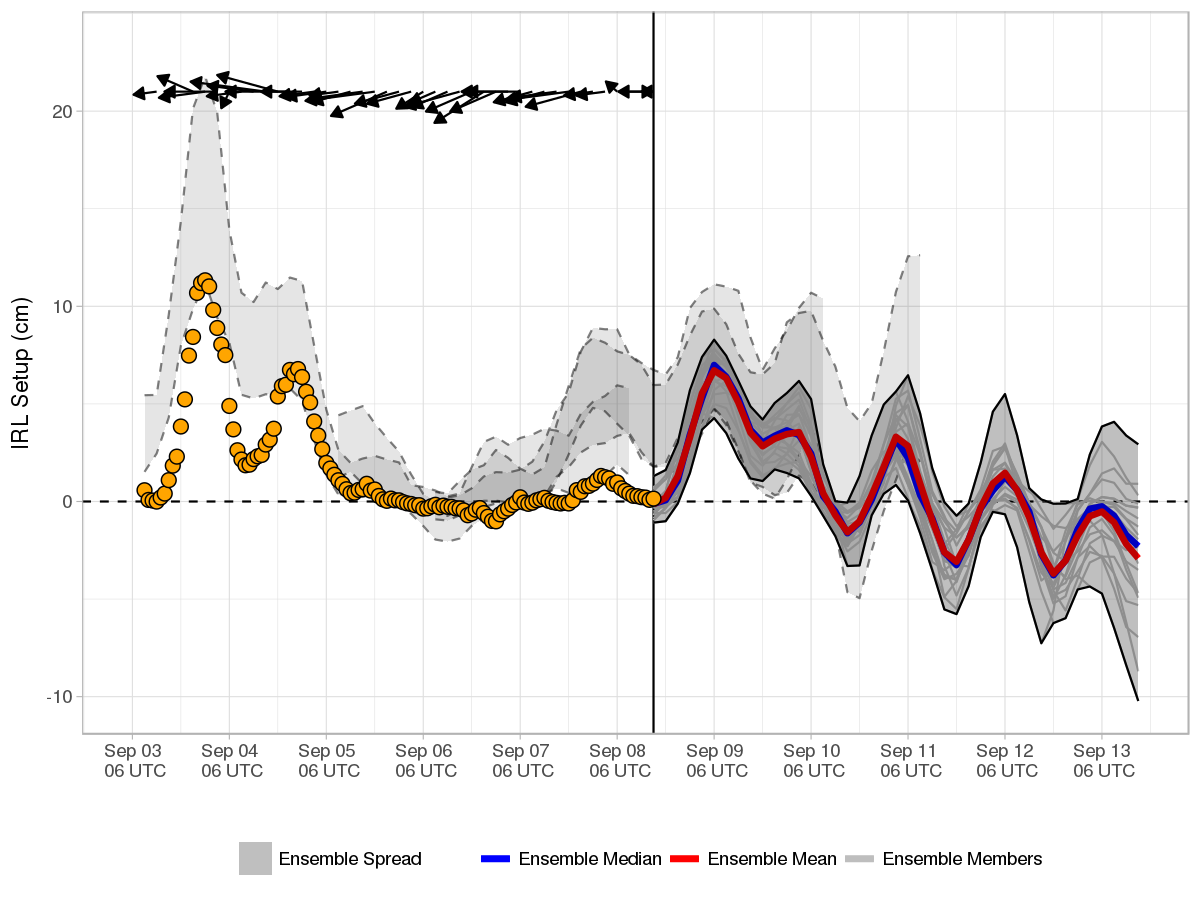
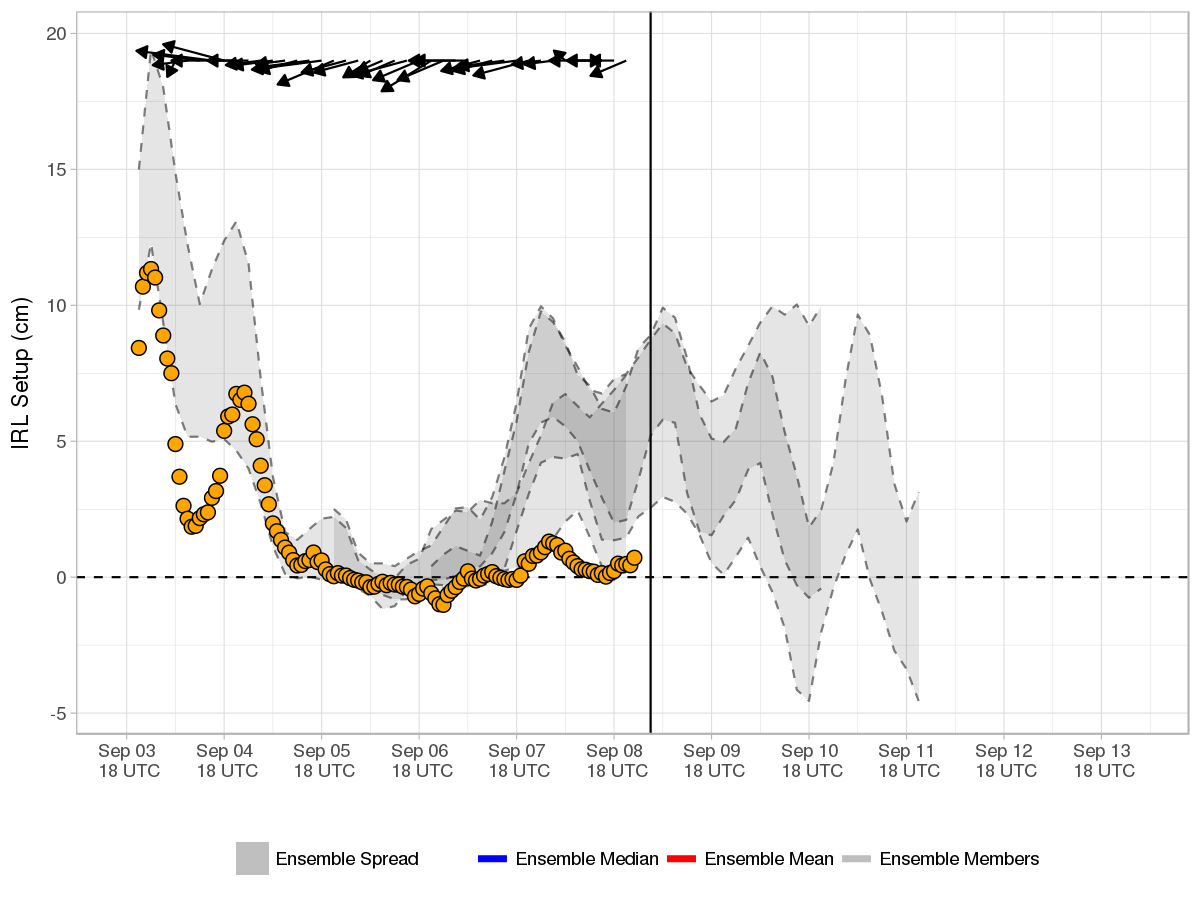
Forecast Update

diff --git a/docs/index.md b/docs/index.md
@@ -1,9 +1,9 @@
-Current Forecast 2018-09-08, Cycle 06 UTC
+Current Forecast 2018-09-08, Cycle 18 UTC
 -----------------------------------------
 
 [![](img/raw_setup.png)](https://fit-winds.github.io/IRLSetup/img/raw_setup.png)
 
-> Forecast valid 2018-09-08 11:36:10.
+> Forecast valid 2018-09-08 20:10:16.
 
 Explanation
 -----------
@@ -23,7 +23,7 @@ Ensemble Forecast System
 cycles. Calculation of the IRL setup is performed shortly after a new
 GEFS cycle is made available on the [data access
 link](http://www.ftp.ncep.noaa.gov/data/nccf/com/gens/prod/). The
-current cycle 2018-09-08 06 UTC 0.5° GEFS mean and median forecasts of
+current cycle 2018-09-08 18 UTC 0.5° GEFS mean and median forecasts of
 setup are represented by the red and blue curves, respectively. Ensemble
 spread from the current and three previous GEFS runs are shaded grey and
 bounded by solid and dashed curves, respectively.
